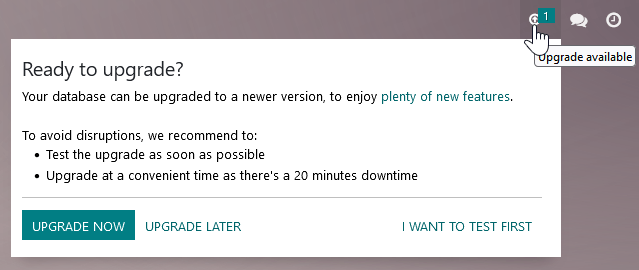
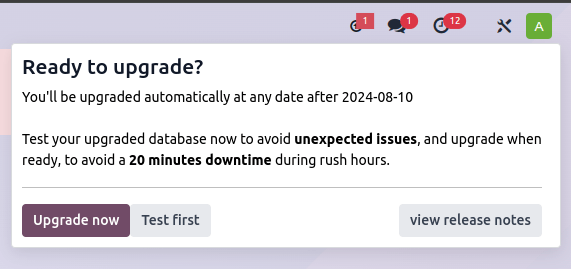
[IMP] upgrade: better introduce the upgrade process

diff --git a/content/administration/upgrade.rst b/content/administration/upgrade.rst
@@ -2,31 +2,55 @@
 Upgrade
 =======
 
-An upgrade is the process of moving your database from an older version to a newer :doc:`supported
-version <supported_versions>` (e.g., Odoo 14.0 to Odoo 16.0). Frequently upgrading is essential as
-each version comes with new and improved features, bug fixes, and security patches.
+An upgrade involves moving a database from an older version to a newer supported version (e.g., from
+Odoo 15.0 to Odoo 17.0). Regular upgrades are crucial as each version offers new features, bug
+fixes, and security patches. Using a :doc:`supported version <supported_versions>` is strongly
+recommended. Each major version is supported for three years.
 
-.. _upgrade_faq/rolling_release:
+Depending on the hosting type and Odoo version used, a database upgrade can be **mandatory**.
+
+.. tabs::
+
+   .. group-tab:: Odoo Online
+
+      - If a database is on a **major version** (e.g., 15.0, 16.0, 17.0), an upgrade is mandatory
+        every two years.
+      - If a database is on a **minor version** (e.g., 17.1, 17.2, 17.4), an upgrade is mandatory
+        a few weeks after the next version is released. Minor versions are usually released every
+        three months.
+
+   .. group-tab:: Odoo.sh
+
+      After the initial three years of support, you will have another two years to complete the
+      upgrade. You will be notified when an upgrade is required.
+
+      .. image:: upgrade/odoo-sh-message.png
+         :alt: The "unsupported version" popup on Odoo.sh.
+
+   .. group-tab:: On-premise
+
+      You can stay on the same version indefinitely, even if it is not recommended. Note that the
+      smaller the version gap, the easier the upgrade should be.
 
 .. spoiler:: Automatic upgrades: Odoo Online's Rolling Release process
 
-   The Rolling Release process allows Odoo Online customers to upgrade their database directly from
-   a message prompt sent to the database administrator as soon as a new version is released. The
-   invitation to upgrade is only sent if no issues are detected during the automatic tests.
+   You will receive a notification in your database a few weeks before a mandatory upgrade will be
+   automatically carried out. You are in control of the process as long as the deadline is not
+   reached.
 
    .. image:: upgrade/rr-upgrade-message.png
       :alt: The upgrade message prompt on the top right of the database
 
-   It is strongly recommended to manually :ref:`test the upgrade first <upgrade/test_your_db>`.
-   Clicking :guilabel:`I want to test first` redirects to `the database manager
-   <https://www.odoo.com/my/databases/>`_, where it is possible to request an upgraded test database
-   and check it for any discrepancies.
+   Concretely, Odoo’s Upgrade Team performs a silent test upgrade of every database that should be
+   upgraded. If the test is successful and lasts less than 20 minutes, you can directly trigger the
+   upgrade from the database. If the test fails, you can test an upgrade using the `database manager
+   <https://www.odoo.com/my/databases>`_.
 
-   It is **not** recommended to click :guilabel:`Upgrade Now` without testing first, as it
-   immediately triggers the live production database upgrade.
+   When you are invited to upgrade, it is strongly recommended to :ref:`request an upgraded test
+   database <upgrade-request-test>` first and spend time :ref:`testing <upgrade-testing>` it.
 
-   If the Rolling Release process detects an issue with the upgrade, it will be deactivated until
-   the issue is resolved.
+   An automatic upgrade to the next version will be triggered if no action is taken before the
+   specified due date.
 
 An upgrade does not cover:
 
@@ -39,46 +63,44 @@ An upgrade does not cover:
 .. warning::
    If your database contains a **custom module**, you must first upgrade its source code to be
    compatible with the new version of Odoo **before upgrading**.
-.. TODOUPG : once the page for developers is published, uncomment and link
-.. :doc:`first upgrade its source code </developer/reference/upgrade>`
 
+.. _upgrade-nutshell:
 
 Upgrading in a nutshell
------------------------
+=======================
 
 #. Request an upgraded test database (see :ref:`obtaining an upgraded test database
-   <upgrade/request-test-database>`).
+   <upgrade-request-test>`).
 
 #. Thoroughly test the upgraded database (see :ref:`testing the new version of the database
-   <upgrade/test_your_db>`).
+   <upgrade-testing>`).
 
-#. Report any issue encountered during the testing to Odoo via the `support page
-   <https://odoo.com/help?stage=migration>`__.
+#. Report any issue encountered during the testing to Odoo by going to the `Support page and
+   selecting "An issue related to my future upgrade (I am testing an upgrade)"
+   <https://www.odoo.com/help?stage=migration>`_.
 
-#. (If applicable) : upgrade the source code of your custom module to be compatible with the new
+#. (If applicable): upgrade the source code of your custom module to be compatible with the new
    version of Odoo.
 
 #. Once all issues are resolved and you are confident that the upgraded database can be used as
    your main database without any issues, plan the upgrade of your production database.
 
 #. Request the upgrade for the production database, rendering it unavailable for the time it takes
-   to complete the process (see :ref:`upgrading the production database <upgrade/upgrade-prod>`).
+   to complete the process (see :ref:`upgrading the production database <upgrade-production>`).
 
-#. Report any issue encountered during the upgrade to Odoo via the `support page
-   <https://odoo.com/help?stage=post_upgrade>`__.
+#. Report any issue encountered during the upgrade to Odoo by going to the `Support page and
+   selecting "An issue related to my upgrade (production)"
+   <https://www.odoo.com/help?stage=post_upgrade>`_.
 
-.. TODOUPG: Once the page for developers is published, put this at 4)
-.. (see :ref:`upgrading customizations <upgrade/upgrading_customizations>`).
-
-.. _upgrade/request-test-database:
+.. _upgrade-request-test:
 
 Obtaining an upgraded test database
------------------------------------
+===================================
 
-The `Upgrade page <https://upgrade.odoo.com/>`_ is the main platform for requesting an upgraded
+The `Upgrade page <https://upgrade.odoo.com>`_ is the main platform for requesting an upgraded
 database. However, depending on the hosting type, you can upgrade from the command line
-(on-premise), the `Odoo Online database manager <https://odoo.com/my/databases>`_, or your `Odoo.sh
-project <https://odoo.sh/project>`_.
+(on-premise), the Odoo Online `database manager <https://www.odoo.com/my/databases>`_, or your
+`Odoo.sh project <https://www.odoo.sh/project>`_.
 
 .. note::
    The Upgrade platform follows the same `Privacy Policy <https://www.odoo.com/privacy>`_ as the
@@ -90,7 +112,7 @@ project <https://odoo.sh/project>`_.
    .. group-tab:: Odoo Online
 
       Odoo Online databases can be manually upgraded via the `database manager
-      <https://odoo.com/my/databases>`_.
+      <https://www.odoo.com/my/databases>`_.
 
       The database manager displays all databases associated with the user's account. Databases
       not on the most recent version of Odoo display an arrow in a circle icon next to their name,
@@ -124,8 +146,7 @@ project <https://odoo.sh/project>`_.
       .. image:: upgrade/odoo-sh-staging.png
          :alt: Odoo.sh project and tabs
 
-      The **latest production daily automatic backup** is then sent to the `upgrade platform
-      <https://upgrade.odoo.com>`_.
+      The **latest production daily automatic backup** is then sent to the Upgrade platform.
 
       Once the upgrade platform is done upgrading the backup and uploading it on the branch, it is
       put in a **special mode**: each time a **commit is pushed** on the branch, a **restore
@@ -140,12 +161,6 @@ project <https://odoo.sh/project>`_.
          can be performed. If there are none, the "update on commit" mode is
          skipped, the upgraded database is built as soon as it is transferred from the upgrade
          platform, and the upgrade mode is exited.
-
-         .. TODOUPG : once the page for developers is published, uncomment
-         .. Check out the :doc:`upgrade for developers'
-         .. documentation </developer/reference/upgrade>` for more information. In
-         .. addition, if a module is not needed after an upgrade, :ref:`you can
-         .. remove customizations <upgrade/remove_customizations>`.
 
    .. group-tab:: On-premise
 
@@ -163,7 +178,7 @@ project <https://odoo.sh/project>`_.
          $ python <(curl -s https://upgrade.odoo.com/upgrade) --help
 
       An upgraded test database can also be requested via the `Upgrade page
-      <https://upgrade.odoo.com/>`_.
+      <https://upgrade.odoo.com>`_.
 
       .. note::
          - For security reasons, only the person who submitted the upgrade request can download it.
@@ -184,22 +199,20 @@ project <https://odoo.sh/project>`_.
 .. note::
    You can request multiple test databases if you wish to test an upgrade more than once.
 
-.. _upgrade/upgrade_report:
-
 .. note::
    When an upgrade request is completed, an upgrade report is attached to the successful upgrade
    email, and it becomes available in the Discuss app for users who are part of the "Administration
    / Settings" group. This report provides important information about the changes introduced by
    the new version.
 
-.. _upgrade/test_your_db:
+.. _upgrade-testing:
 
 Testing the new version of the database
----------------------------------------
+=======================================
 
-It is essential to spend some time testing the upgraded test database to ensure that you are not
-stuck in your day-to-day activities by a change in views, behavior, or an error message once the
-upgrade goes live.
+It is essential to test the upgraded test database to ensure that you are not stuck in your
+day-to-day activities by a change in views, behavior, or an error message once the upgrade goes
+live.
 
 .. note::
    Test databases are neutralized, and some features are disabled to prevent them from impacting the
@@ -254,9 +267,8 @@ working correctly and to get more familiar with the new version.
    This list is **not** exhaustive. Extend the example to your other apps based on your use of Odoo.
 
 If you face an issue while testing your upgraded test database, you can request the assistance of
-Odoo via the `support page <https://odoo.com/help?stage=migration>`__ by selecting the option
-related to testing the upgrade. In any case, it is essential to report any
-problem encountered during the testing to fix it before upgrading your production database.
+Odoo by going to the `Support page and selecting "An issue related to my future upgrade (I am
+testing an upgrade)" <https://www.odoo.com/help?stage=migration>`_.
 
 You might encounter significant differences with standard views, features, fields, and models during
 testing. Those changes cannot be reverted on a case-by-case basis. However, if a change introduced
@@ -274,12 +286,12 @@ module to make it compatible with the new version of Odoo.
    - Server actions in the action menu on form views, as well as by selecting multiple records on
      list views
 
-.. _upgrade/upgrade-prod:
+.. _upgrade-production:
 
 Upgrading the production database
----------------------------------
+=================================
 
-Once the :ref:`tests <upgrade/test_your_db>` are completed and you are confident that the upgraded
+Once the :ref:`tests <upgrade-testing>` are completed and you are confident that the upgraded
 database can be used as your main database without any issues, it is time to plan the go-live day.
 
 Your production database will be unavailable during its upgrade. Therefore, we recommend planning
@@ -297,15 +309,15 @@ process the day before upgrading the production database is also recommended.
    - Business interruptions (e.g., no longer having the possibility to validate an action)
    - Poor customer experience (e.g., an eCommerce website that does not work correctly)
 
-The process of upgrading a production database is similar to upgrading a test database with a few
-exceptions.
+The process of upgrading a production database is similar to upgrading a test database, but with a
+few exceptions.
 
 .. tabs::
 
    .. group-tab:: Odoo Online
 
       The process is similar to :ref:`obtaining an upgraded test database
-      <upgrade/request-test-database>`, except for the purpose option, which must be set to
+      <upgrade-request-test>`, except for the purpose option, which must be set to
       :guilabel:`Production` instead of :guilabel:`Test`.
 
       .. warning::
@@ -315,8 +327,8 @@ exceptions.
 
    .. group-tab:: Odoo.sh
 
-      The process is similar to :ref:`obtaining an upgraded test database
-      <upgrade/request-test-database>` on the :guilabel:`Production` branch.
+      The process is similar to :ref:`obtaining an upgraded test database <upgrade-request-test>` on
+      the :guilabel:`Production` branch.
 
       .. image:: upgrade/odoo-sh-prod.png
          :alt: View from the upgrade tab
@@ -334,8 +346,6 @@ exceptions.
       The update of your custom modules must be successful to complete the entire upgrade process.
       Make sure the status of your staging upgrade is :guilabel:`successful` before trying it in
       production.
-   .. TODOUPG : once the page for developers is published, uncomment
-   .. More information on how to upgrade your custom modules can be found in the :ref:`upgrading customizations documentation <upgrade/upgrading_customizations>`.
 
    .. group-tab:: On-premise
 
@@ -347,7 +357,8 @@ exceptions.
          $ python <(curl -s https://upgrade.odoo.com/upgrade) production -d <your db name> -t <target version>
 
       An upgraded production database can also be requested via the `Upgrade page
-      <https://upgrade.odoo.com/>`_.
+      <https://upgrade.odoo.com>`_.
+
       Once the database is uploaded, any modification to your production database will **not** be
       present on your upgraded database. This is why we recommend not using it during the upgrade
       process.
@@ -357,15 +368,14 @@ exceptions.
          a filestore. Therefore, the upgraded database filestore must be merged with the production
          filestore before deploying the new version.
 
-In case of an issue with your production database, you can request the assistance of Odoo via the
-`support page <https://odoo.com/help?stage=post_upgrade>`__ by selecting the option related to
-the upgrade in production.
+In case of an issue with your production database, you can request the assistance of Odoo by going
+to the `Support page and selecting "An issue related to my future upgrade (I am testing an upgrade)"
+<https://www.odoo.com/help?stage=migration>`_.
 
-
-.. _upgrade/sla:
+.. _upgrade-sla:
 
 Service-level agreement (SLA)
------------------------------
+=============================
 
 With Odoo Enterprise, upgrading a database to the most recent version of Odoo is **free**, including
 any support required to rectify potential discrepancies in the upgraded database.
@@ -374,8 +384,10 @@ Information about the upgrade services included in the Enterprise Licence is ava
 :ref:`Odoo Enterprise Subscription Agreement <upgrade>`. However, this section clarifies what
 upgrade services you can expect.
 
+.. _upgrade-sla-covered:
+
 Upgrade services covered by the SLA
-===================================
+-----------------------------------
 
 Databases hosted on Odoo's cloud platforms (Odoo Online and Odoo.sh) or self-hosted (On-Premise) can
 benefit from upgrade services at all times for:
@@ -389,8 +401,10 @@ benefit from upgrade services at all times for:
 Upgrade services are limited to the technical conversion and adaptation of a database (standard
 modules and data) to make it compatible with the version targeted by the upgrade.
 
+.. _upgrade-sla-not-covered:
+
 Upgrade services not covered by the SLA
-=======================================
+---------------------------------------
 
 The following upgrade-related services are **not** included:
 

diff --git a/content/administration/odoo_online.rst b/content/administration/odoo_online.rst
@@ -46,7 +46,7 @@ Trigger a database upgrade.
 
 .. seealso::
    For more information about the upgrade process, check out the :ref:`Odoo Online upgrade
-   documentation <upgrade/request-test-database>`.
+   documentation <upgrade-request-test>`.
 
 .. _odoo_online/duplicate:
 
